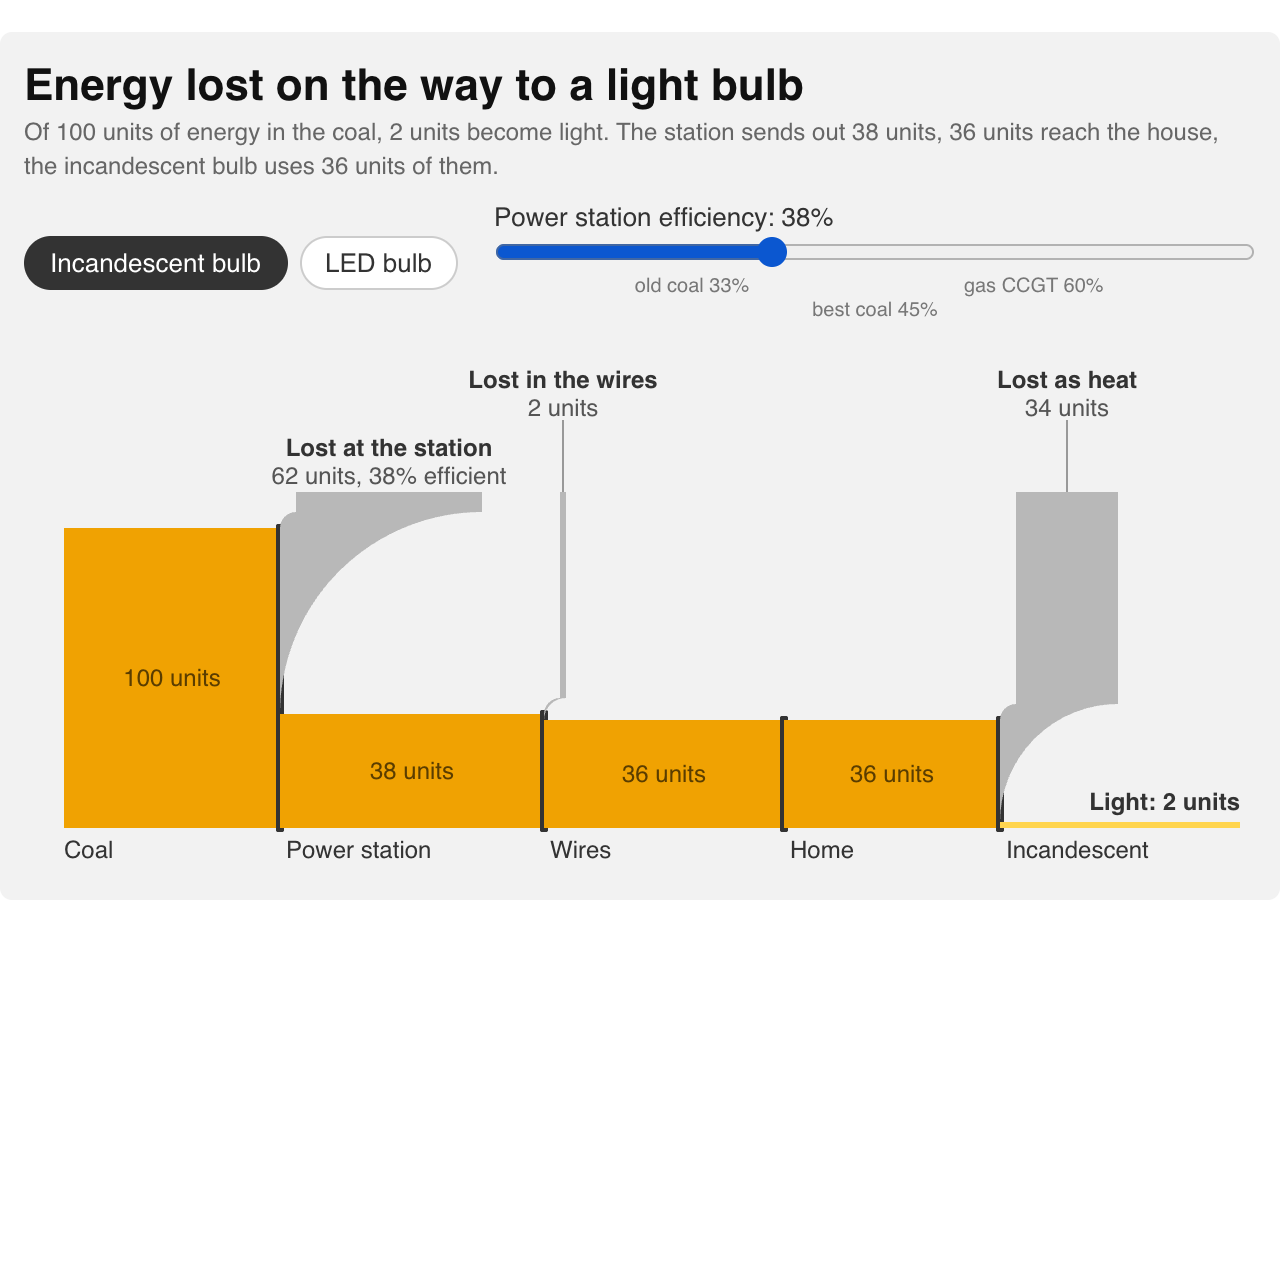
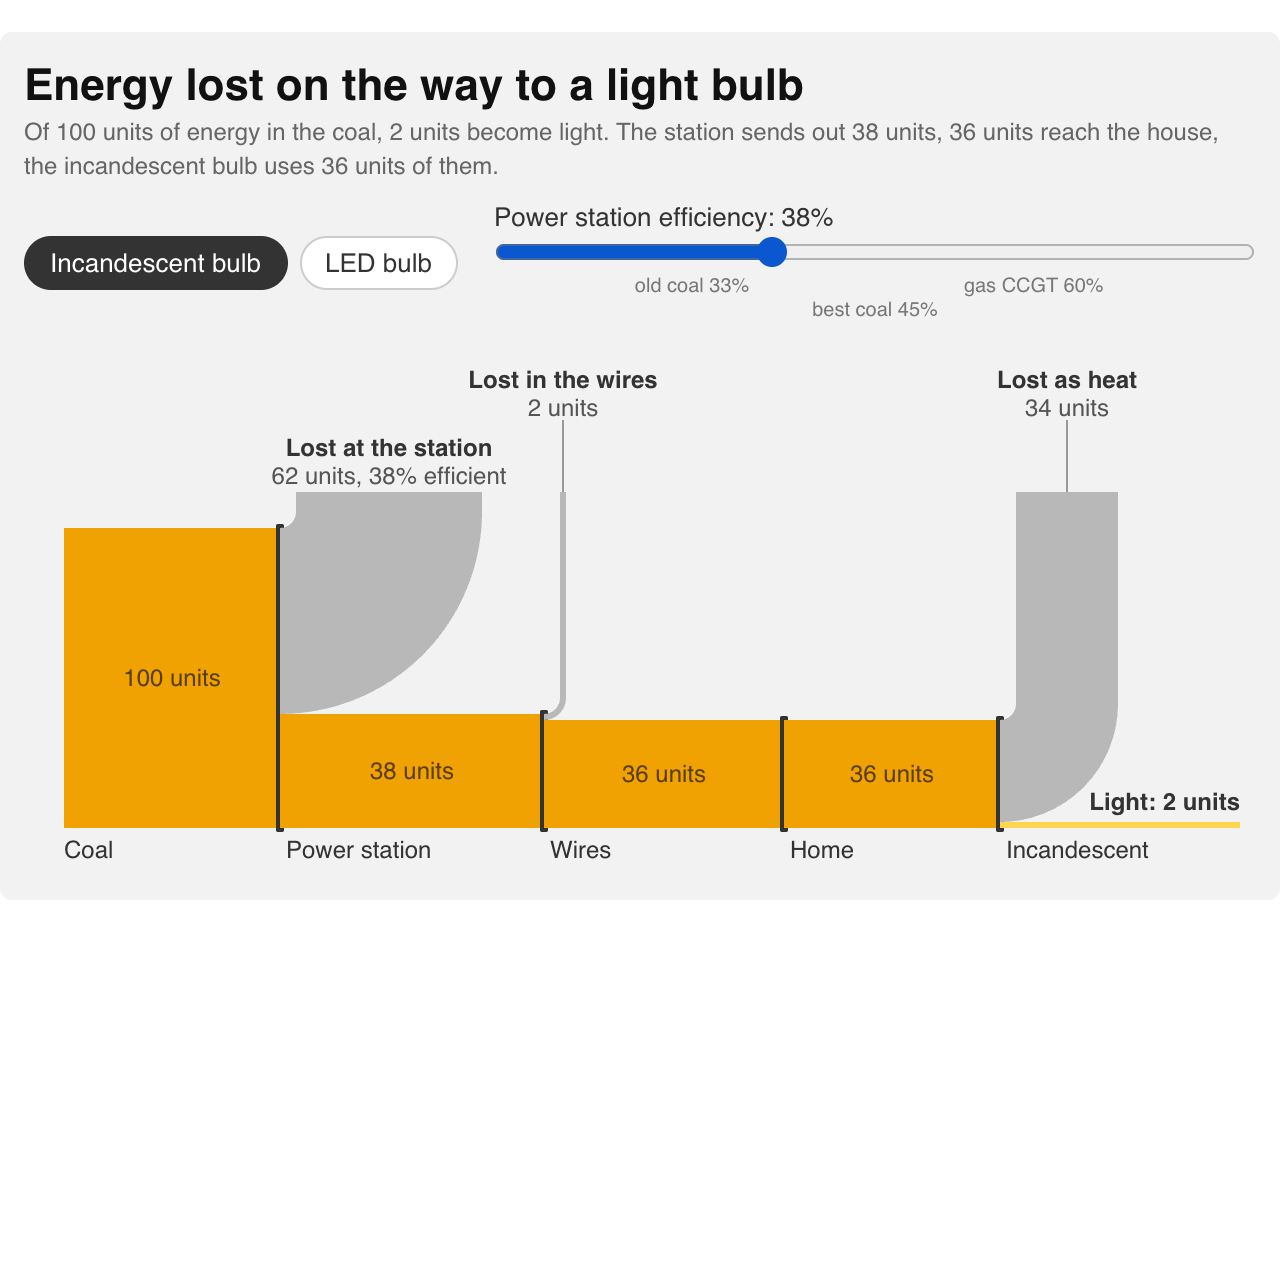
Energy chain: the losses turn upwards around the right centre
Both arcs of each loss band had the wrong sweep flag, so SVG drew them around a centre at
the bottom right of the turn instead of the top left, and the bands bulged the wrong way.
Thumbnail re-captured.

Changed region(s): [[0.2188, 0.375, 0.375, 0.5625], [0.7812, 0.5312, 0.875, 0.6562], [0.4062, 0.5312, 0.4375, 0.5625]]

diff --git a/src/energy-chain/widget.js b/src/energy-chain/widget.js
@@ -196,8 +196,11 @@ export function createEnergyChainWidget({width = FIGURE_WIDTH, bulb: initialBulb
       const y2 = y1 + t;                          // the bottom of the loss band
       const yc = (y1 + y2) / 2, R = r + t / 2;
       const cy = yc - R;                          // the turn's centre
-      const d = `M${F(x)},${F(y2)}A${F(r + t)},${F(r + t)},0,0,1,${F(x + r + t)},${F(cy)}` +
-        `V${F(topY)}H${F(x + r)}V${F(cy)}A${F(r)},${F(r)},0,0,0,${F(x)},${F(y1)}Z`;
+      // Both arcs are centred on (x, cy), above the band's entry: the outer edge (radius r + t)
+      // sweeps anticlockwise from below the centre to its right, the inner edge (radius r)
+      // comes back clockwise. SVG's sweep flag is 0 for the former, 1 for the latter.
+      const d = `M${F(x)},${F(y2)}A${F(r + t)},${F(r + t)},0,0,0,${F(x + r + t)},${F(cy)}` +
+        `V${F(topY)}H${F(x + r)}V${F(cy)}A${F(r)},${F(r)},0,0,1,${F(x)},${F(y1)}Z`;
       svgEl("path", {d, fill}, g);
       // A thin leader from the stem up to the label when the label is in the upper row.
       const lx = x + r + t / 2;
